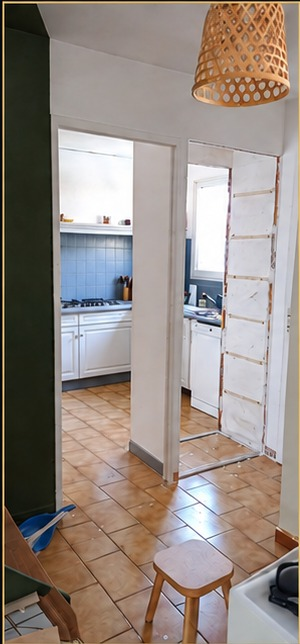
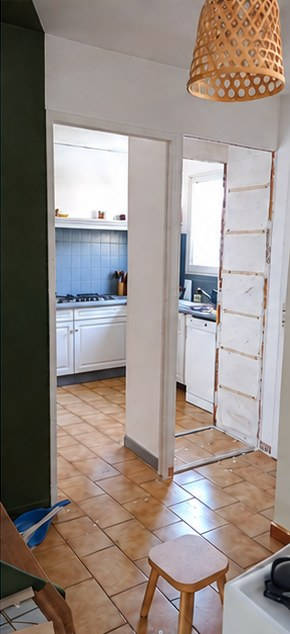
Ajout de 6 chantiers (salon, verrière, cuisine, coin repas, faïence, salle à manger) et photos du vestiaire sans cadre doré
Claude-Session: https://claude.ai/code/session_01LRK2zqB5nvLKzXaLNJcFv3

Changed region(s): [[0.0, 0.0, 1.0, 1.0]]

diff --git a/realisations.html b/realisations.html
@@ -206,6 +206,10 @@
   @media (max-width:480px){
     .hero h1{font-size:24px;}
   }
+  .project-photos.cols-2{column-count:2;}
+  .project-photos.cols-3{column-count:3;}
+  @media (max-width:860px){ .project-photos.cols-3{column-count:2;} }
+  @media (max-width:560px){ .project-photos.cols-2, .project-photos.cols-3{column-count:1;} }
 </style>
 </head>
 <body>
@@ -351,6 +355,105 @@
           <div class="photo-item"><span class="photo-num">1</span><img src="vestiaire1.jpg" alt="Avant travaux, couloir avec ouverture vers la cuisine"></div>
           <div class="photo-item"><span class="photo-num">2</span><img src="vestiaire2.jpg" alt="Avant travaux, placard vide avant cloisonnement"></div>
           <div class="photo-item"><span class="photo-num">3</span><img src="vestiaire3.jpg" alt="Vestiaire d'entrée terminé avec coffre à chaussures sur-mesure"></div>
+        </div>
+      </div>
+      <div class="project-card">
+        <div class="project-head">
+          <h3>Rénovation complète d'un salon, du gros œuvre à la déco</h3>
+          <p>Un salon fermé et daté, repris de fond en comble : démolition pour ouvrir l'espace, reprise des murs, pose d'un parquet, puis peinture et finitions. Un séjour devenu ouvert et lumineux.</p>
+          <div class="project-tags">
+            <span>Gros œuvre</span>
+            <span>Plâtrerie</span>
+            <span>Parquet</span>
+            <span>Peinture</span>
+          </div>
+        </div>
+        <div class="project-photos cols-3">
+          <div class="photo-item"><span class="photo-num">1</span><img src="salon1.jpg" alt="Avant travaux : cloison en cours de démolition, gravats au sol" loading="lazy"></div>
+          <div class="photo-item"><span class="photo-num">2</span><img src="salon2.jpg" alt="Espace ouvert, parquet en cours de pose" loading="lazy"></div>
+          <div class="photo-item"><span class="photo-num">3</span><img src="salon3.jpg" alt="Salon terminé avec parquet, luminaire suspendu et décoration" loading="lazy"></div>
+        </div>
+      </div>
+      <div class="project-card">
+        <div class="project-head">
+          <h3>Une verrière atelier pour ouvrir la cuisine sur le salon</h3>
+          <p>Pour apporter de la lumière et ouvrir la cuisine sur le salon sans la supprimer, une verrière de style atelier a été intégrée dans la cloison. Reprise des murs à l'enduit, finitions et peinture autour de l'ouverture et des portes.</p>
+          <div class="project-tags">
+            <span>Cloison</span>
+            <span>Verrière</span>
+            <span>Enduit</span>
+            <span>Peinture</span>
+          </div>
+        </div>
+        <div class="project-photos cols-2">
+          <div class="photo-item"><span class="photo-num">1</span><img src="verriere1.jpg" alt="Avant travaux : reprise des murs à l'enduit autour des portes" loading="lazy"></div>
+          <div class="photo-item"><span class="photo-num">2</span><img src="verriere2.jpg" alt="Verrière atelier ouvrant la cuisine sur le salon" loading="lazy"></div>
+        </div>
+      </div>
+      <div class="project-card">
+        <div class="project-head">
+          <h3>Rénovation complète de cuisine</h3>
+          <p>Dépose de l'ancienne cuisine et de ses revêtements, nouveau sol carrelé, murs repris et repeints, puis aménagement d'une cuisine neuve : plan de travail noir, façades blanches, rangements bois et éclairage LED sous les meubles hauts.</p>
+          <div class="project-tags">
+            <span>Rénovation générale</span>
+            <span>Carrelage</span>
+            <span>Peinture</span>
+            <span>Agencement</span>
+          </div>
+        </div>
+        <div class="project-photos cols-2">
+          <div class="photo-item"><span class="photo-num">1</span><img src="cuisine1.jpg" alt="Avant travaux : ancienne cuisine et carrelage d'origine" loading="lazy"></div>
+          <div class="photo-item"><span class="photo-num">2</span><img src="cuisine2.jpg" alt="Dépose des revêtements muraux en cours" loading="lazy"></div>
+          <div class="photo-item"><span class="photo-num">3</span><img src="cuisine3.jpg" alt="Cuisine neuve : plan de travail noir et étagères ouvertes" loading="lazy"></div>
+          <div class="photo-item"><span class="photo-num">4</span><img src="cuisine4.jpg" alt="Cuisine terminée, façades blanches et éclairage LED sous les meubles hauts" loading="lazy"></div>
+        </div>
+      </div>
+      <div class="project-card">
+        <div class="project-head">
+          <h3>Un coin repas créé dans la cuisine</h3>
+          <p>Dans une pièce vide au carrelage ancien, un coin repas a été aménagé contre le mur, avec une étagère murale, des murs repeints et un sol neuf, tout en gardant la vue sur le séjour grâce à la verrière.</p>
+          <div class="project-tags">
+            <span>Agencement</span>
+            <span>Peinture</span>
+            <span>Carrelage</span>
+          </div>
+        </div>
+        <div class="project-photos cols-2">
+          <div class="photo-item"><span class="photo-num">1</span><img src="coinrepas1.jpg" alt="Avant travaux : pièce vide et carrelage ancien" loading="lazy"></div>
+          <div class="photo-item"><span class="photo-num">2</span><img src="coinrepas2.jpg" alt="Coin repas terminé avec étagère murale et vue sur le séjour par la verrière" loading="lazy"></div>
+        </div>
+      </div>
+      <div class="project-card">
+        <div class="project-head">
+          <h3>Habillage en faïence décorative pour un mur de cuisine</h3>
+          <p>Un pan de mur nu de la cuisine a été habillé jusqu'au plafond d'une faïence décorative en petites mosaïques noires et blanches, avec des finitions nettes en périphérie.</p>
+          <div class="project-tags">
+            <span>Carrelage</span>
+            <span>Faïence</span>
+            <span>Finitions</span>
+          </div>
+        </div>
+        <div class="project-photos cols-2">
+          <div class="photo-item"><span class="photo-num">1</span><img src="faience1.jpg" alt="Avant travaux : mur de cuisine brut et enduit" loading="lazy"></div>
+          <div class="photo-item"><span class="photo-num">2</span><img src="faience2.jpg" alt="Pose de la faïence décorative en cours" loading="lazy"></div>
+          <div class="photo-item"><span class="photo-num">3</span><img src="faience3.jpg" alt="Faïence posée, bandes de masquage encore en place pour les finitions" loading="lazy"></div>
+          <div class="photo-item"><span class="photo-num">4</span><img src="faience4.jpg" alt="Mur de cuisine terminé, faïence noire et blanche" loading="lazy"></div>
+        </div>
+      </div>
+      <div class="project-card">
+        <div class="project-head">
+          <h3>Une salle à manger entièrement rénovée, parquet chêne massif</h3>
+          <p>Reprise complète d'une pièce de vie : murs ratissés et repeints, pose d'un parquet en chêne massif et finitions. D'un espace nu et abîmé, on passe à une salle à manger chaleureuse.</p>
+          <div class="project-tags">
+            <span>Parquet</span>
+            <span>Plâtrerie</span>
+            <span>Peinture</span>
+          </div>
+        </div>
+        <div class="project-photos cols-3">
+          <div class="photo-item"><span class="photo-num">1</span><img src="salleamanger1.jpg" alt="Avant travaux : murs enduits et ancien carrelage" loading="lazy"></div>
+          <div class="photo-item"><span class="photo-num">2</span><img src="salleamanger2.jpg" alt="Parquet en chêne en cours de pose" loading="lazy"></div>
+          <div class="photo-item"><span class="photo-num">3</span><img src="salleamanger3.jpg" alt="Salle à manger terminée, parquet chêne massif" loading="lazy"></div>
         </div>
       </div>
       <p class="more-soon">D'autres chantiers My Crafter Renov' arrivent prochainement.</p>
